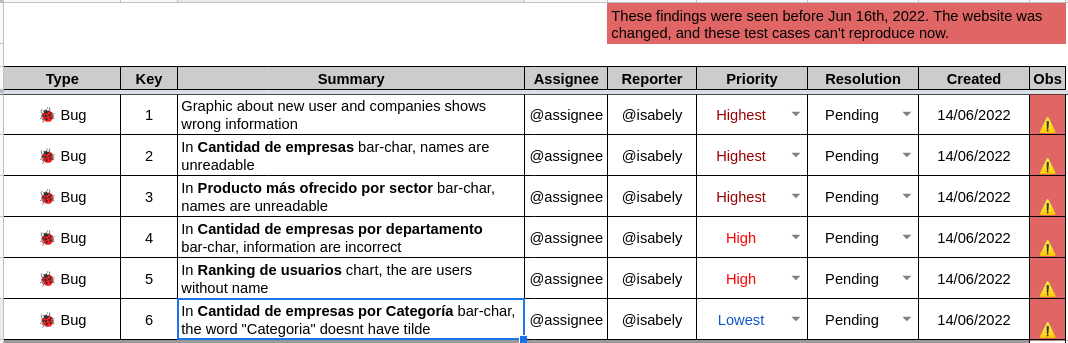
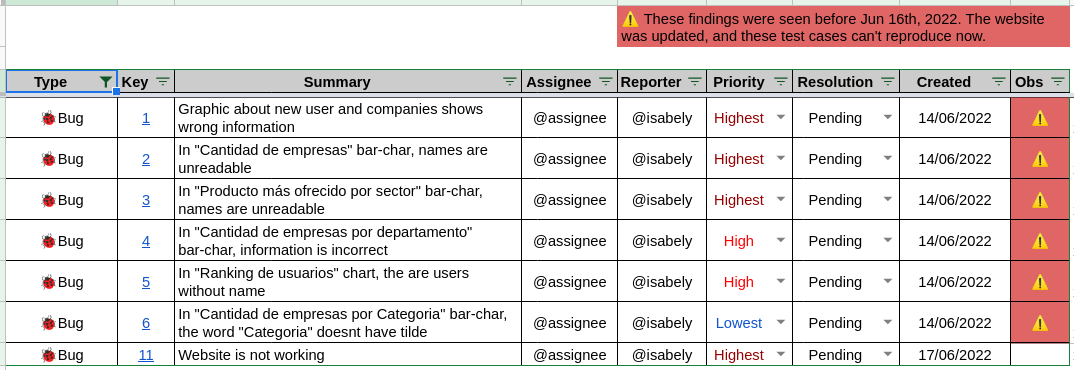
update Readme file

diff --git a/README.md b/README.md
@@ -44,6 +44,7 @@ It is possible to do all in one test using an `Scenario outline`:
 Most of the time, finding Bugs in testing process means that those situations wont reach the client and the development team can fix them before release a product. 
 
 ![bug reports](assets/bugs.png)
+![bug11](assets/bug11.png)
 
 ### 🐞 [Here the entire bug reports](https://docs.google.com/spreadsheets/d/1u1QKv56hdA59uOP3MtTf8VhnrHuEM0kol_1WWiRWHFI/edit?usp=sharing)
 
@@ -52,19 +53,16 @@ Most of the time, finding Bugs in testing process means that those situations wo
 Improvements are findings encountered in the exploratory test, that not block the use of the product. But fix them improve the quality of the product.
 
 ![improvement report](assets/improvements.png)
+![Error503 image](assets/improvement12.png)  
+**Error 503:** This is a very common situation with this website, that is mean the user watch this screen a lot of times. A friendly message can be a difference in product perception of the client.
 
 ### ✨ [Here the entire improvement reports](https://docs.google.com/spreadsheets/d/1u1QKv56hdA59uOP3MtTf8VhnrHuEM0kol_1WWiRWHFI/edit?usp=sharing)  
 
 
-![Error503 image](assets/error503.png)  
-  
-
-**Error 503:** This is a very common situation with this website, that is mean the user watch this screen a lot of times. A friendly message can be a difference in product perception of the client.
-
 ## 5. Conclusions
 * Exploratory testing is the principal technique when the documentation is not enough to know the application and when it is necessary to complement the testing process.
 
-* In the CLN project, were found two situations that did not permit a complete testing process in the designated time:
+* In the CLN project, two situations were found that did not permit a complete testing process in the designated time:
 
     * First, the cache works intermittently, doing difficult to test the website because of its availability.
 
